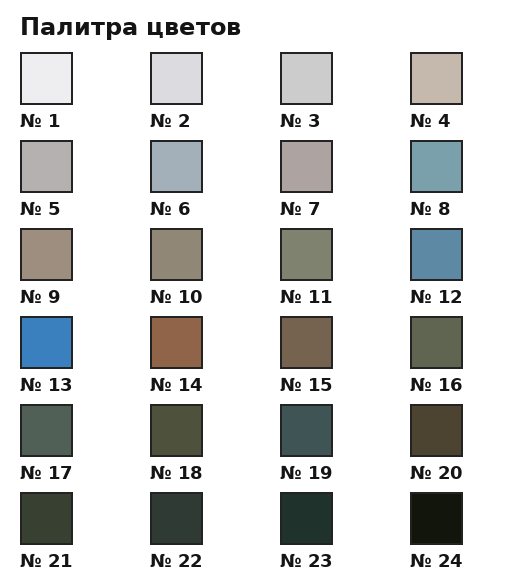
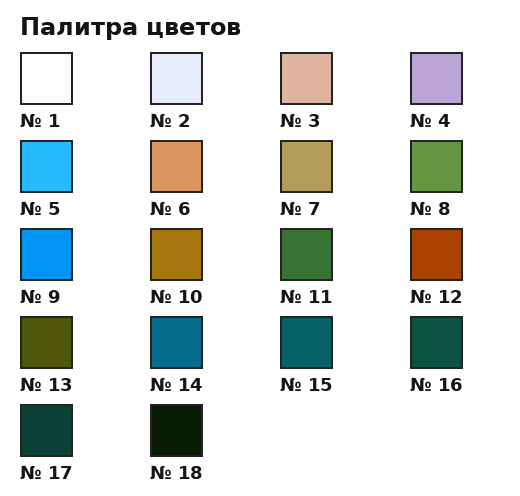
Упростить линии и добавить пример правильного шаблона
Крупные ровные зоны вместо мелкой сетки: упрощение форм,
сглаживание границ, ползунок «Простота линий» и пример на странице.

diff --git a/paint-by-numbers.html b/paint-by-numbers.html
@@ -97,13 +97,49 @@
       background: white;
     }
     .status { margin-top: 12px; color: var(--muted); min-height: 1.5em; }
-    .hidden { display: none; }
+    .example-grid {
+      display: grid;
+      grid-template-columns: repeat(auto-fit, minmax(220px, 1fr));
+      gap: 14px;
+      margin-bottom: 8px;
+    }
+    .example-card {
+      text-align: center;
+    }
+    .example-card p {
+      margin: 8px 0 0;
+      font-size: 0.9rem;
+      color: var(--muted);
+    }
+    .tip {
+      margin: 0 0 16px;
+      padding: 12px 14px;
+      background: #eff6ff;
+      border-radius: 10px;
+      color: #1e3a8a;
+      font-size: 0.95rem;
+    }
   </style>
 </head>
 <body>
   <div class="wrap">
     <h1>Картина по номерам</h1>
     <p class="lead">Загрузите своё фото — получите шаблон для раскрашивания, образец и палитру цветов.</p>
+
+    <div class="panel">
+      <h2 style="margin:0 0 10px; font-size:1.1rem;">Как должно выглядеть</h2>
+      <p class="tip">Хорошая картина по номерам — это <strong>крупные ровные зоны</strong> и немного линий. Не должно быть «мелкой сетки» по всему небу и горам.</p>
+      <div class="example-grid">
+        <div class="example-card">
+          <img src="paint-by-numbers/example-clean-template.png" alt="Пример чистого шаблона">
+          <p>Так правильно — крупные зоны</p>
+        </div>
+        <div class="example-card">
+          <img src="paint-by-numbers/example-clean-reference.png" alt="Пример цветного образца">
+          <p>Цветной образец</p>
+        </div>
+      </div>
+    </div>
 
     <div class="panel">
       <div class="dropzone" id="dropzone">
@@ -114,12 +150,12 @@
 
       <div class="controls">
         <div>
-          <label for="colors">Количество цветов: <span id="colorsValue">24</span></label>
-          <input id="colors" type="range" min="12" max="36" value="24">
+          <label for="colors">Количество цветов: <span id="colorsValue">18</span></label>
+          <input id="colors" type="range" min="12" max="30" value="18">
         </div>
         <div>
-          <label for="detail">Детализация: <span id="detailValue">средняя</span></label>
-          <input id="detail" type="range" min="1" max="3" value="2">
+          <label for="simplicity">Простота линий: <span id="simplicityValue">чистый шаблон</span></label>
+          <input id="simplicity" type="range" min="1" max="3" value="3">
         </div>
         <div>
           <label for="vibrancy">Яркость цветов: <span id="vibrancyValue">яркие</span></label>
@@ -161,23 +197,22 @@
     const downloadsEl = document.getElementById("downloads");
     const previewsEl = document.getElementById("previews");
     const colorsInput = document.getElementById("colors");
-    const detailInput = document.getElementById("detail");
+    const simplicityInput = document.getElementById("simplicity");
+    const simplicityValue = document.getElementById("simplicityValue");
     const colorsValue = document.getElementById("colorsValue");
-    const detailValue = document.getElementById("detailValue");
-
     const vibrancyInput = document.getElementById("vibrancy");
     const vibrancyValue = document.getElementById("vibrancyValue");
 
     let sourceImage = null;
 
-    const detailLabels = ["низкая", "средняя", "высокая"];
+    const simplicityLabels = ["детально", "средне", "чистый шаблон"];
     const vibrancyLabels = ["мягкие", "средние", "яркие"];
 
     colorsInput.addEventListener("input", () => {
       colorsValue.textContent = colorsInput.value;
     });
-    detailInput.addEventListener("input", () => {
-      detailValue.textContent = detailLabels[detailInput.value - 1];
+    simplicityInput.addEventListener("input", () => {
+      simplicityValue.textContent = simplicityLabels[simplicityInput.value - 1];
     });
     vibrancyInput.addEventListener("input", () => {
       vibrancyValue.textContent = vibrancyLabels[vibrancyInput.value - 1];
@@ -374,6 +409,62 @@
       return { width, height, labels };
     }
 
+    function modeFilterLabels(labelMap, size = 5) {
+      const { width, height, labels } = labelMap;
+      const radius = Math.floor(size / 2);
+      const filtered = new Int32Array(labels.length);
+      for (let y = 0; y < height; y++) {
+        for (let x = 0; x < width; x++) {
+          const counts = new Map();
+          for (let dy = -radius; dy <= radius; dy++) {
+            for (let dx = -radius; dx <= radius; dx++) {
+              const ny = Math.min(height - 1, Math.max(0, y + dy));
+              const nx = Math.min(width - 1, Math.max(0, x + dx));
+              const value = labels[ny * width + nx];
+              counts.set(value, (counts.get(value) || 0) + 1);
+            }
+          }
+          let best = labels[y * width + x];
+          let bestCount = 0;
+          counts.forEach((count, value) => {
+            if (count > bestCount) {
+              bestCount = count;
+              best = value;
+            }
+          });
+          filtered[y * width + x] = best;
+        }
+      }
+      return { width, height, labels: filtered };
+    }
+
+    function buildSimplifiedLabelMap(imageData, centroids, simplifyFactor) {
+      const sw = Math.max(1, Math.round(imageData.width / simplifyFactor));
+      const sh = Math.max(1, Math.round(imageData.height / simplifyFactor));
+      const smallCanvas = document.createElement("canvas");
+      smallCanvas.width = sw;
+      smallCanvas.height = sh;
+      const tempCanvas = document.createElement("canvas");
+      tempCanvas.width = imageData.width;
+      tempCanvas.height = imageData.height;
+      tempCanvas.getContext("2d").putImageData(imageData, 0, 0);
+      smallCanvas.getContext("2d").drawImage(tempCanvas, 0, 0, sw, sh);
+      const smallData = smallCanvas.getContext("2d").getImageData(0, 0, sw, sh);
+      let smallMap = buildLabelMap(smallData, centroids);
+      smallMap = modeFilterLabels(smallMap, 5);
+      smallMap = modeFilterLabels(smallMap, 5);
+
+      const labels = new Int32Array(imageData.width * imageData.height);
+      for (let y = 0; y < imageData.height; y++) {
+        for (let x = 0; x < imageData.width; x++) {
+          const sx = Math.min(sw - 1, Math.floor((x * sw) / imageData.width));
+          const sy = Math.min(sh - 1, Math.floor((y * sh) / imageData.height));
+          labels[y * imageData.width + x] = smallMap.labels[sy * sw + sx];
+        }
+      }
+      return modeFilterLabels({ width: imageData.width, height: imageData.height, labels }, 3);
+    }
+
     function connectedComponents(labels, width, height, colorId) {
       const visited = new Uint8Array(labels.length);
       const components = [];
@@ -546,13 +637,14 @@
       await new Promise((resolve) => setTimeout(resolve, 30));
 
       const colors = Number(colorsInput.value);
-      const detail = Number(detailInput.value);
+      const simplicity = Number(simplicityInput.value);
       const vibrancy = Number(vibrancyInput.value);
       const satFactor = vibrancy === 1 ? 1.45 : vibrancy === 2 ? 1.85 : 2.25;
       const contrast = vibrancy === 1 ? 1.08 : vibrancy === 2 ? 1.15 : 1.24;
-      const maxSize = detail === 1 ? 900 : detail === 2 ? 1100 : 1300;
-      const minLabelArea = detail === 1 ? 1800 : detail === 2 ? 1000 : 600;
-      const sampleStep = detail === 1 ? 6 : detail === 2 ? 4 : 3;
+      const simplifyFactor = simplicity === 1 ? 2 : simplicity === 2 ? 3 : 5;
+      const maxSize = simplicity === 1 ? 1100 : simplicity === 2 ? 1000 : 900;
+      const minLabelArea = simplicity === 1 ? 1200 : simplicity === 2 ? 2000 : 3200;
+      const sampleStep = simplicity === 1 ? 4 : simplicity === 2 ? 5 : 6;
 
       const imageData = enhanceImageData(
         resizeImage(sourceImage, maxSize),
@@ -566,7 +658,7 @@
 
       const { centroids: rawCentroids } = kmeans(pixels, colors);
       const centroids = vibrantCentroids(rawCentroids);
-      const labelMap = buildLabelMap(imageData, centroids);
+      const labelMap = buildSimplifiedLabelMap(imageData, centroids, simplifyFactor);
       const templateCanvas = drawTemplate(labelMap, centroids, minLabelArea);
       const referenceCanvas = drawReference(labelMap, centroids);
       const paletteCanvas = drawPalette(centroids);

diff --git a/paint_by_numbers.py b/paint_by_numbers.py
@@ -50,16 +50,76 @@ def vibrant_palette(palette: np.ndarray, min_saturation: float = 0.38) -> np.nda
     return result.astype(np.uint8)
 
 
-def quantize_colors(image: Image.Image, num_colors: int) -> tuple[np.ndarray, np.ndarray]:
+def simplify_labels(labels: np.ndarray, min_region: int = 500, smooth_size: int = 5) -> np.ndarray:
+    """Remove tiny regions and smooth borders for cleaner paint-by-numbers lines."""
+    result = labels.copy()
+
+    for _ in range(2):
+        for color_id in np.unique(result):
+            mask = result == color_id
+            component_ids, count = ndimage.label(mask)
+            if count == 0:
+                continue
+            sizes = ndimage.sum(mask, component_ids, range(1, count + 1))
+            for component, size in enumerate(sizes, start=1):
+                if size >= min_region:
+                    continue
+                component_mask = component_ids == component
+                dilated = ndimage.binary_dilation(component_mask, iterations=2)
+                neighbors = result[dilated & ~component_mask]
+                if neighbors.size == 0:
+                    continue
+                result[component_mask] = int(np.bincount(neighbors).argmax())
+
+    def mode(values: np.ndarray) -> float:
+        values = values.astype(np.int64)
+        return float(np.bincount(values).argmax())
+
+    if smooth_size > 1:
+        result = ndimage.generic_filter(result, mode, size=smooth_size, mode="nearest").astype(np.int32)
+
+    return result
+
+
+def quantize_colors(
+    image: Image.Image,
+    num_colors: int,
+    simplify_factor: int = 4,
+) -> tuple[np.ndarray, np.ndarray]:
     enhanced = enhance_image(image)
-    quantized = enhanced.quantize(colors=num_colors, method=Image.Quantize.MEDIANCUT)
+    if simplify_factor > 1:
+        small = enhanced.resize(
+            (
+                max(1, enhanced.width // simplify_factor),
+                max(1, enhanced.height // simplify_factor),
+            ),
+            Image.Resampling.BILINEAR,
+        )
+    else:
+        small = enhanced
+
+    quantized = small.quantize(colors=num_colors, method=Image.Quantize.MEDIANCUT)
     raw_palette = np.array(quantized.getpalette(), dtype=np.uint8).reshape(-1, 3)[:num_colors]
     palette = vibrant_palette(raw_palette)
 
-    pixels = np.array(enhanced, dtype=np.float32).reshape(-1, 3)
+    pixels = np.array(small, dtype=np.float32).reshape(-1, 3)
     palette_f = palette.astype(np.float32)
-    labels = np.argmin(((pixels[:, None, :] - palette_f[None, :, :]) ** 2).sum(axis=2), axis=1)
-    labels = labels.astype(np.int32).reshape(enhanced.height, enhanced.width)
+    labels_small = np.argmin(((pixels[:, None, :] - palette_f[None, :, :]) ** 2).sum(axis=2), axis=1)
+    labels_small = labels_small.astype(np.int32).reshape(small.height, small.width)
+
+    min_region = max(8, (small.width * small.height) // (num_colors * 45))
+    labels_small = simplify_labels(labels_small, min_region=min_region, smooth_size=5)
+
+    if simplify_factor > 1:
+        labels_img = Image.fromarray(labels_small.astype(np.uint8), mode="L")
+        labels = np.array(
+            labels_img.resize(enhanced.size, Image.Resampling.NEAREST),
+            dtype=np.int32,
+        )
+        labels = simplify_labels(labels, min_region=min_region * simplify_factor, smooth_size=3)
+    else:
+        labels = labels_small
+
     return labels, palette
 
 
@@ -144,9 +204,10 @@ def create_reference_image(labels: np.ndarray, palette: np.ndarray) -> Image.Ima
 def generate_paint_by_numbers(
     input_path: Path,
     output_dir: Path,
-    num_colors: int = 24,
-    min_label_area: int = 1000,
+    num_colors: int = 18,
+    min_label_area: int = 1800,
     max_dimension: int = 1200,
+    simplify_factor: int = 4,
 ) -> dict[str, Path]:
     output_dir.mkdir(parents=True, exist_ok=True)
     image = Image.open(input_path)
@@ -165,7 +226,7 @@ def generate_paint_by_numbers(
             Image.Resampling.LANCZOS,
         )
 
-    labels, palette = quantize_colors(image, num_colors)
+    labels, palette = quantize_colors(image, num_colors, simplify_factor=simplify_factor)
 
     template = create_outline(labels)
     draw_numbers(template, labels, min_label_area)
@@ -198,9 +259,10 @@ def main() -> None:
     parser = argparse.ArgumentParser(description="Create paint-by-numbers files from an image.")
     parser.add_argument("input", type=Path, help="Source image path")
     parser.add_argument("-o", "--output-dir", type=Path, default=Path("paint-by-numbers"))
-    parser.add_argument("--colors", type=int, default=24, help="Number of paint colors")
-    parser.add_argument("--min-label", type=int, default=1000, help="Minimum area to show a number")
+    parser.add_argument("--colors", type=int, default=18, help="Number of paint colors")
+    parser.add_argument("--min-label", type=int, default=1800, help="Minimum area to show a number")
     parser.add_argument("--max-size", type=int, default=1200, help="Max width/height")
+    parser.add_argument("--simplify", type=int, default=4, help="Shape simplification (2=detailed, 5=clean)")
     args = parser.parse_args()
 
     outputs = generate_paint_by_numbers(
@@ -209,6 +271,7 @@ def main() -> None:
         num_colors=args.colors,
         min_label_area=args.min_label,
         max_dimension=args.max_size,
+        simplify_factor=args.simplify,
     )
 
     print("Generated:")